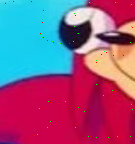
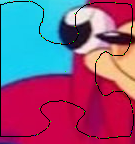
cleaned

diff --git a/findangles.py b/findangles.py
@@ -1,52 +1,51 @@
 import cv2
 import numpy as np
 
-img = cv2.imread("img/1.png")
-imgRGB = cv2.imread("img/1.png",cv2.IMREAD_UNCHANGED)
-channels = cv2.split(imgRGB)
-imgray = cv2.cvtColor(imgRGB, cv2.COLOR_BGR2GRAY)
-if imgRGB is None:
-    print("erreur ouverture fichier")
-ret, gray = cv2.threshold(channels[3], 127, 255, 0)
+def workimg(path):
+    print(path)
+    img =  cv2.imread("img/"+path)
+    
+    imgRGB = cv2.imread("img/"+path,cv2.IMREAD_UNCHANGED)
+    channels = cv2.split(imgRGB)
+    imgray = cv2.cvtColor(imgRGB, cv2.COLOR_BGR2GRAY)
+    if imgRGB is None:
+        print("erreur ouverture fichier")
+    ret, gray = cv2.threshold(channels[3], 127, 255, 0)
 
-# find Harris corners
-gray = np.float32(gray)
-dst = cv2.cornerHarris(gray,2,3,0.04)
-dst = cv2.dilate(dst,None)
-ret, dst = cv2.threshold(dst,0.01*dst.max(),255,0)
-dst = np.uint8(dst)
+    # find Harris corners
+    gray = np.float32(gray)
+    dst = cv2.cornerHarris(gray,2,3,0.04)
+    dst = cv2.dilate(dst,None)
+    factor=0.02
+    while True : 
+        try:
+            ret, dst = cv2.threshold(dst,factor*dst.max(),255,0)
+            dst = np.uint8(dst)
 
-# find centroids
-ret, labels, stats, centroids = cv2.connectedComponentsWithStats(dst)
+            # find centroids
+            ret, labels, stats, centroids = cv2.connectedComponentsWithStats(dst)
 
-# define the criteria to stop and refine the corners
-criteria = (cv2.TERM_CRITERIA_EPS + cv2.TERM_CRITERIA_MAX_ITER, 100, 0.001)
-corners = cv2.cornerSubPix(gray,np.float32(centroids),(5,5),(-1,-1),criteria)
+            # define the criteria to stop and refine the corners
+            criteria = (cv2.TERM_CRITERIA_EPS + cv2.TERM_CRITERIA_MAX_ITER, 100, 0.001)
+            corners = cv2.cornerSubPix(gray,np.float32(centroids),(5,5),(-1,-1),criteria)
 
-# Now draw them
-res = np.hstack((centroids,corners))
-res = np.int0(res)
-img[res[:,1],res[:,0]]=[0,0,255]
-img[res[:,3],res[:,2]] = [0,255,0]
+            # Now draw them
+            res = np.hstack((centroids,corners))
+            res = np.int0(res)
+            img[res[:,1],res[:,0]]=[0,0,255]
+            img[res[:,3],res[:,2]] = [0,255,0]
+            break
+        except:   
+            factor = factor + 0.02
+            print("up")
 
-cv2.imwrite('subpixel5.png',img)
-
-angles = []
-cornersint = np.int0(corners)
-height, width = img.shape[:2]
+    angles = []
+    cornersint = np.int0(corners)
+    height, width = img.shape[:2]
 
 
 def distpp(p1,p2):
     return (p1[0]-p2[0])*(p1[0]-p2[0])+(p1[1]-p2[1])*(p1[1]-p2[1])
-
-
-matdist = []
-for m in cornersint:
-    line = []
-    for n in cornersint:
-        line.append(distpp(m, n))
-    matdist.append(line)
-
 
 def findangle(datas, w, h):
     c1 = (0, 0)

diff --git a/findcorner.py b/findcorner.py
@@ -2,16 +2,56 @@ import cv2
 import numpy as np
 import os
 
+def distpp(p1,p2):
+    return (p1[0]-p2[0])*(p1[0]-p2[0])+(p1[1]-p2[1])*(p1[1]-p2[1])
+
+    
+def findangle(datas, w, h):
+    angles = []
+    c1 = (0, 0)
+    c2 = (w, 0)
+    c3 = (w, h)
+    c4 = (0, h)
+    #il est possible de rajouter facilement un point de contrôle supplémentaire.
+    angle1 = [c1, [datas[0], distpp(c1, datas[0])], [datas[0], distpp(c1, datas[0])]]
+    angle2 = [c2, [datas[0], distpp(c2, datas[0])], [datas[0], distpp(c2, datas[0])]]
+    angle3 = [c3, [datas[0], distpp(c3, datas[0])], [datas[0], distpp(c3, datas[0])]]
+    angle4 = [c4, [datas[0], distpp(c4, datas[0])], [datas[0], distpp(c4, datas[0])]]
+    angletest = [angle1, angle2, angle3, angle4]
+    '''test laissé si besoin
+    itercorners = iter(datas)
+    next(itercorners)
+    #for point in itercorners:'''
+    for point in datas[1:]:
+        for i in angletest:
+            temp = distpp(point, i[0])
+            if i[1][1] > temp:
+                i[2][1] = i[1][1]
+                i[2][0] = i[1][0]
+                i[1][1] = temp
+                i[1][0] = point
+            elif i[2][1] > temp:
+                i[2][1] = temp
+                i[2][0] = point
+
+    for i in angletest:
+        angles.append(i[1][0])
+    return angles
+
+
 def workimg(path):
     print(path)
     img =  cv2.imread("img/"+path)
-    
     imgRGB = cv2.imread("img/"+path,cv2.IMREAD_UNCHANGED)
+
     channels = cv2.split(imgRGB)
     imgray = cv2.cvtColor(imgRGB, cv2.COLOR_BGR2GRAY)
     if imgRGB is None:
         print("erreur ouverture fichier")
     ret, gray = cv2.threshold(channels[3], 127, 255, 0)
+
+    _, contours, _ = cv2.findContours(gray, cv2.RETR_TREE, cv2.CHAIN_APPROX_SIMPLE)
+    cv2.drawContours(img, contours, -1, (0,0,0), 1)
 
     # find Harris corners
     gray = np.float32(gray)
@@ -35,13 +75,19 @@ def workimg(path):
             res = np.int0(res)
             img[res[:,1],res[:,0]]=[0,0,255]
             img[res[:,3],res[:,2]] = [0,255,0]
-            break 
+            break
         except:   
             factor = factor + 0.02
-
-
+    cornersint = np.int0(corners)
+    height, width = img.shape[:2]
+    angles=findangle(cornersint, width, height)
+    posx, posy = zip(*angles)
+    img[posy[:], posx[:]] = [255,0,0]
     cv2.imwrite("im2/"+path,img)
 
-listing = os.listdir("img")
-for list in listing:
-    workimg(list)
+def main():
+    listing = os.listdir("img")
+    for list in listing:
+        workimg(list)
+
+main()
